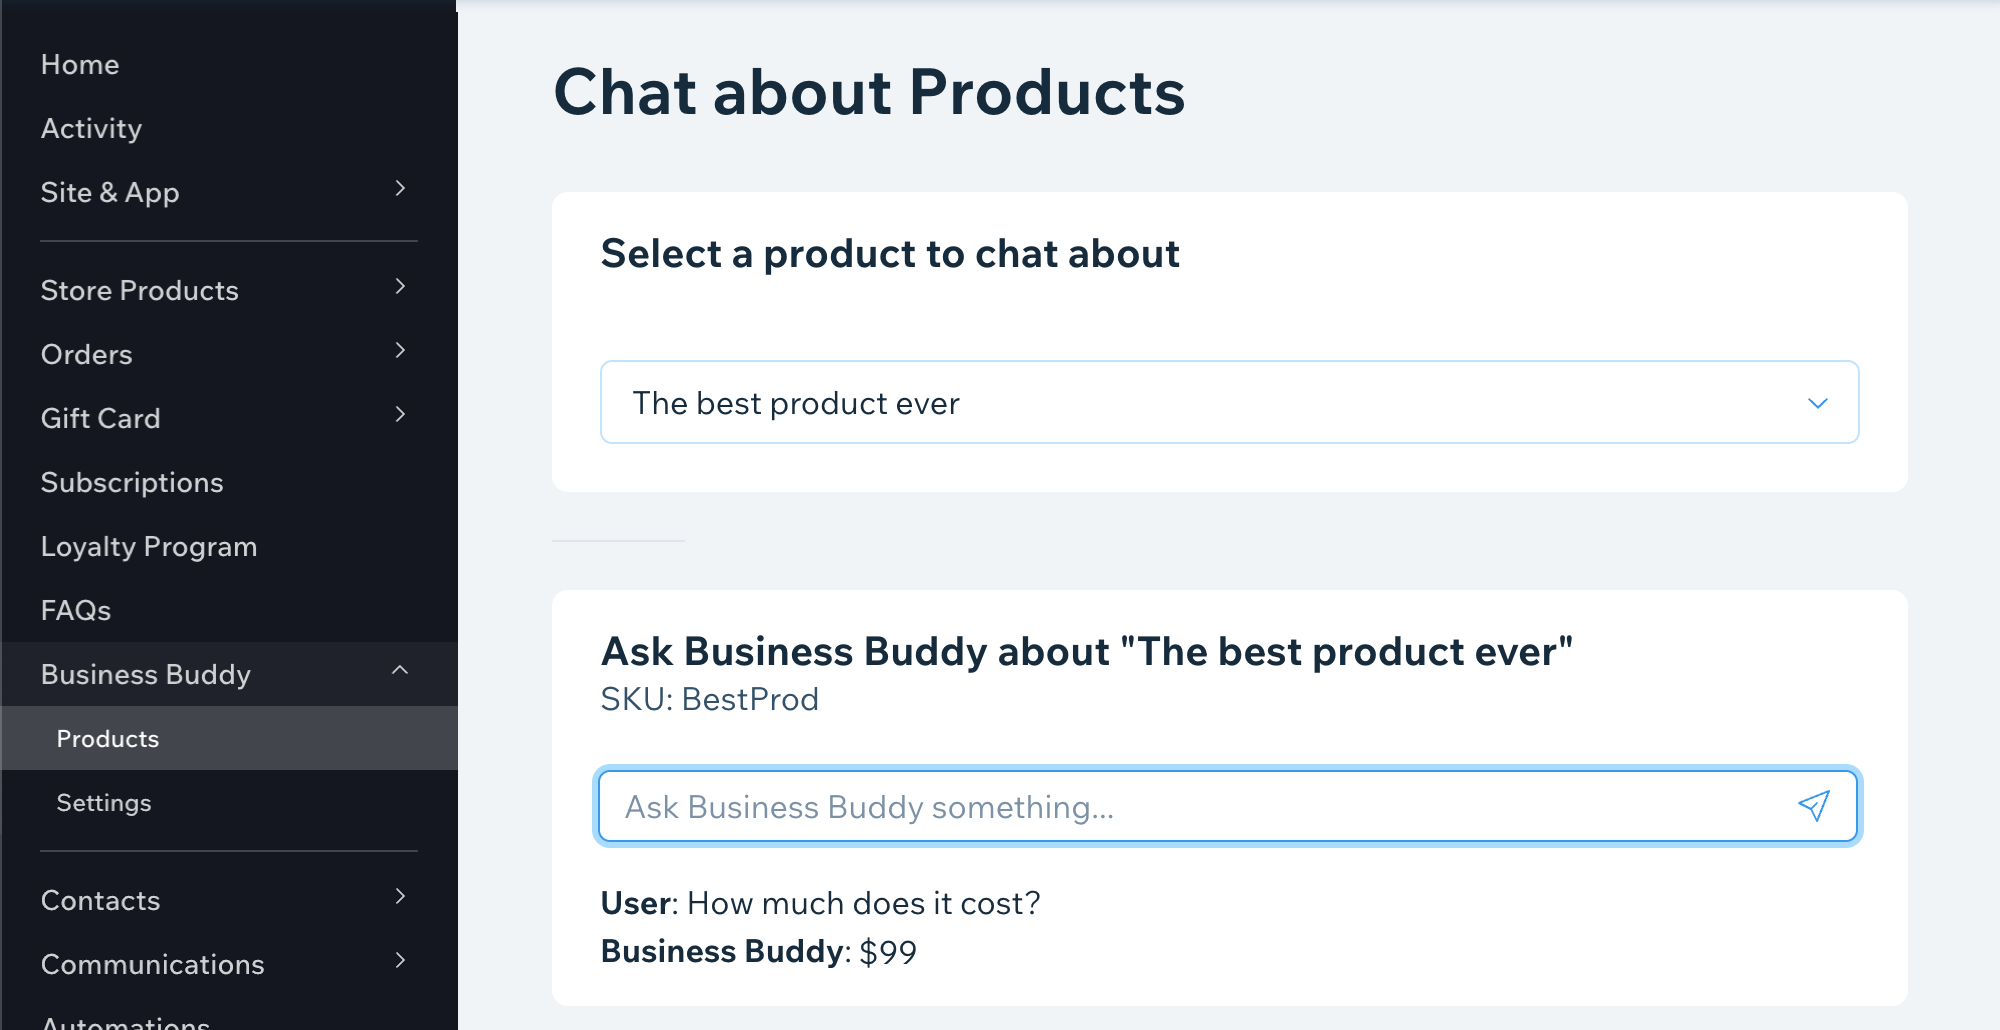
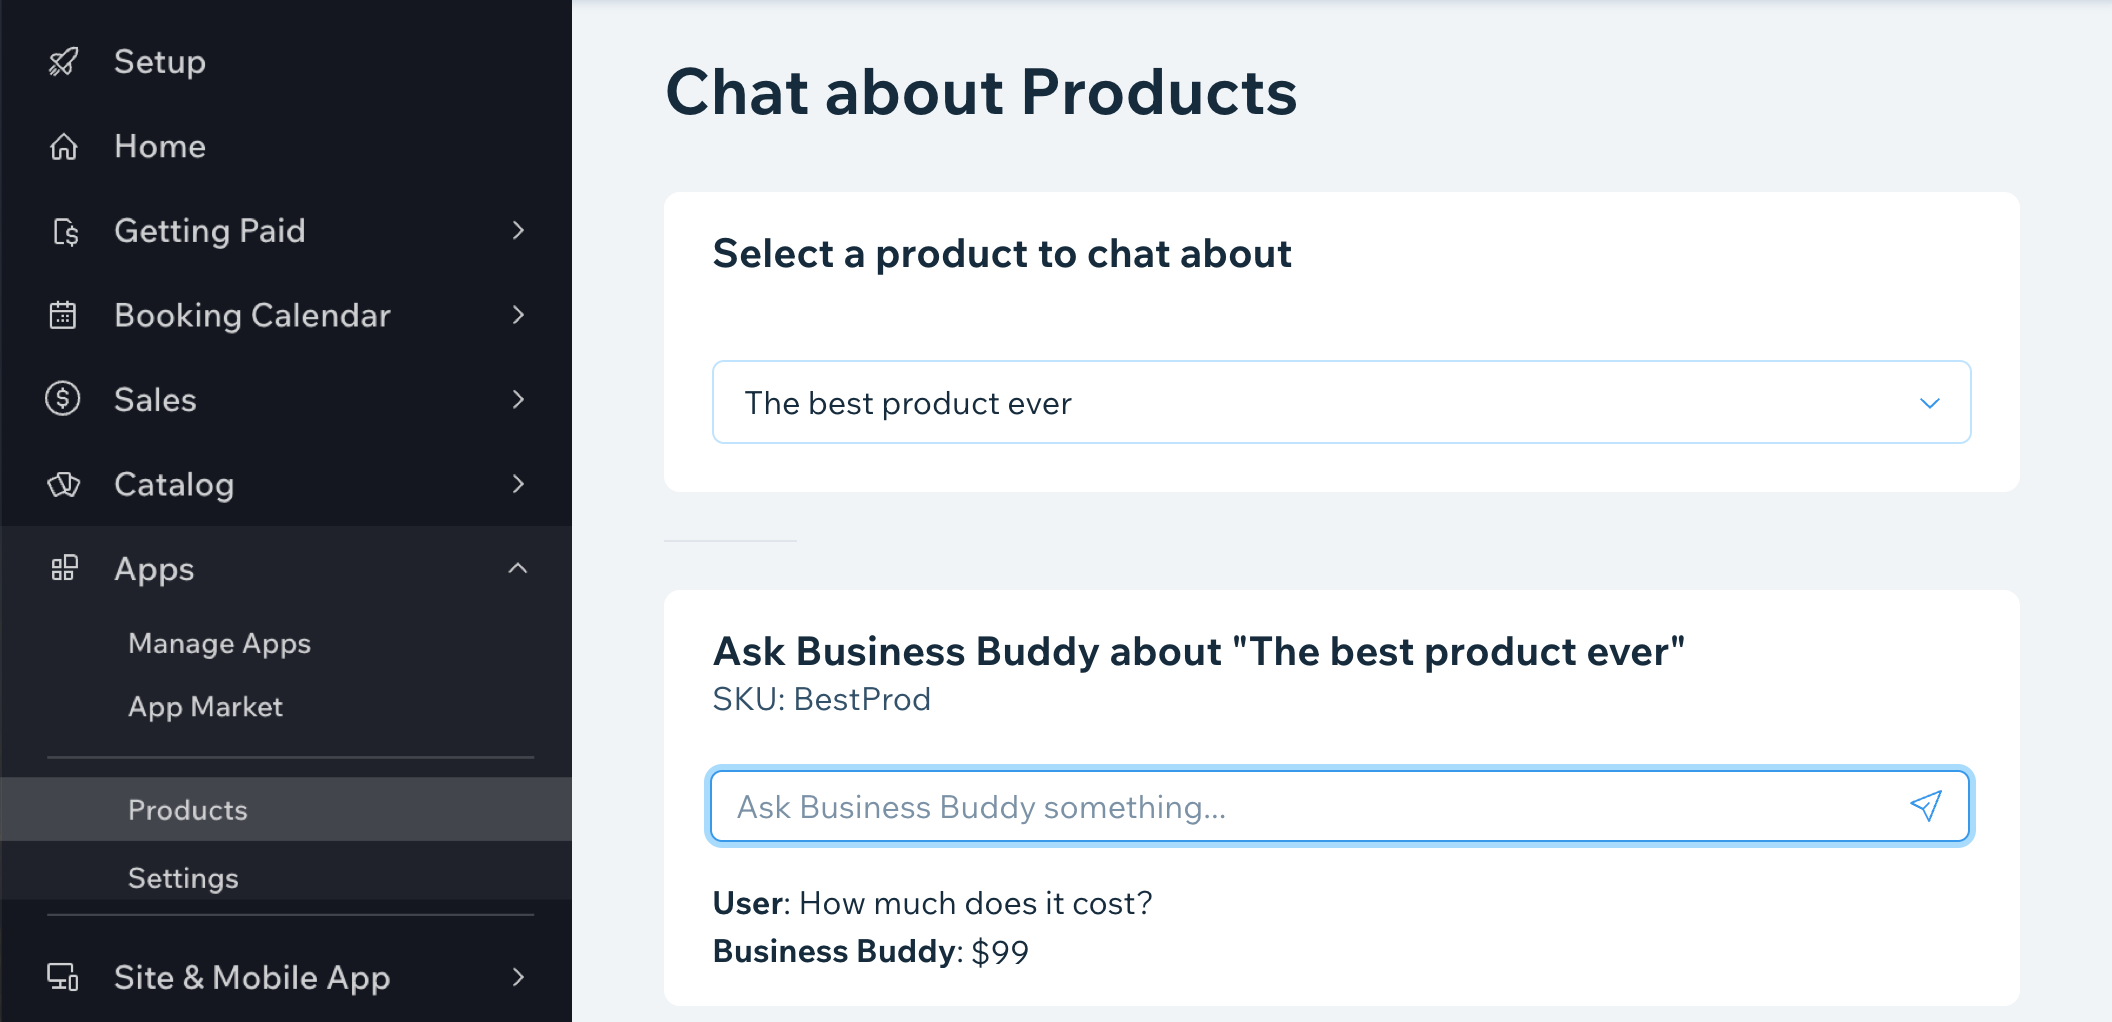
Chris branch (#42)
* Update dashboard_pages.md

* Update page_setup.md

* updated images

* Delete media/tutorial_chat.png

* Delete media/tutorial_sidebar_pages.png

* try again

diff --git a/guides/example/page_setup.md b/guides/example/page_setup.md
@@ -1,60 +1,16 @@
 # Dashboard Page Setup
 
-In the Business Buddy app, the pages appear in the dashboard with the following structure.
+In the Business Buddy app, the pages appear in the dashboard as follows.
 
-![Sidebar structure](../../media/tutorial_sidebar_structure.png)
+![Sidebar pages](../../media/tutorial_sidebar_pages.png)
 
-To create this structure, we:
-
-- Place dashboard page files in subfolders of the **dashboard/pages** folder
-- Configure the sidebar in the **wix.config.json** file
+To create this structure, we place dashboard page files in subfolders of the **dashboard/pages** folder
 
 ## Dashboard page files
 
 A pair of **page.json** and **page.tsx** files defines one dashboard page. The **page.json** files define the page metadata and the page **page.tsx** file defines the page UI and functionality. Our app project has two sets of these file pairs in subfolders under the **dashboard/pages** folder.
 
 Each file pair exists in a folder that determines the route to a page. So our app has two pages with the routes **/product** and **/settings**.
-
-## Sidebar configuration
-
-Our app has two pages, but without any further configuration than what was described above, both pages would appear in the top level of the dashboard.
-
-![Sidebar pages](../../media/tutorial_sidebar_pages.png)
-
-In our case, we want to configure them to show under a category in the dashboard sidebar so they look like they are part of the same app.
-
-We configure where pages show in the sidebar in the **wix.config.json** file and the **page.json** metadata files.
-
-### wix.config.json
-
-In the **wix.config.json** file, we have the following dashboard configuration that creates a new category named "Business Buddy".
-
-```json
-"dashboard": {
-  "sidebar": {
-    "categories": [
-      {
-        "id": "a1efac42-a928-470d-8b82-26661b6f906b",
-        "label": "Business Buddy"
-      }
-    ]
-  }
-}
-```
-
-### page.json
-
-Now that we have a new category, we can add our pages to the category using the **page.json** metadata files. In those files, we add the following sidebar configuration to associate the pages with the category we created.
-
-```json
-"sidebar": {
-  "categoryId": "a1efac42-a928-470d-8b82-26661b6f906b"
-}
-```
-
-At this point, we've configured our sidebar so we see the **Products** and **Settings** pages under the **Business Buddy** category.
-
-![Sidebar structure](../../media/tutorial_sidebar_structure.png)
 
 ## Up next
 

diff --git a/guides/framework/dashboard_pages.md b/guides/framework/dashboard_pages.md
@@ -73,10 +73,11 @@ An object that defines the behavior of this page in the dashboard sidebar.
 
 Whether the page is shown in the sidebar. If `true`, the page is not shown in the sidebar. Defaults to `false`.
 
+<!---
 ##### sidebar.categoryId (optional)
 
 The ID of the category to associate this page with, as defined in the [sidebar categories configuration](#category-configuration).
-
+--->
 ##### sidebar.priority (optional)
 
 The priority of the page entry in the sidebar. Determines the page location in relation to other app pages. Smaller numbers mean higher priority.
@@ -140,6 +141,7 @@ This app adds 4 pages to the dashboard:
 - Analytics page (`dashboard/pages/products/analytics/page.json`) - Route: `/products/analytics`
 - Orders page (`dashboard/pages/orders/page.json`) - Route: `/orders`
 
+<!---
 ## Sidebar Categories
 
 The dashboard sidebar is divided into categories. Each category is defined by a category ID and a category label. The category ID is used to associate pages with a specific category. The category label is used as the display label of the category under which all the pages that belong to that category can be found.
@@ -195,6 +197,7 @@ The text to display as the category label in the sidebar.
 ##### priority (optional)
 
 The priority of the category in the sidebar. Determines the category location in relation to other app categories. Smaller numbers mean higher priority.
+--->
 
 ## Add a new dashboard page
 
